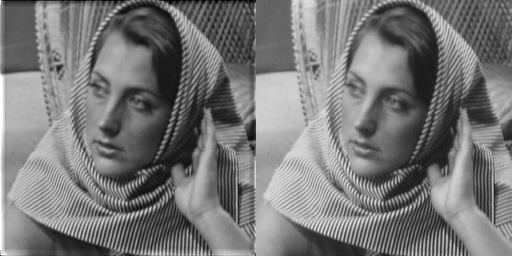
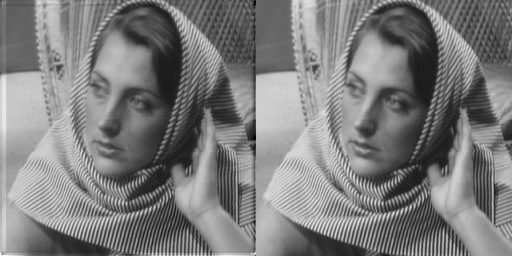
Q2: Added comments

diff --git a/MATLAB/q2c.m b/MATLAB/q2c.m
@@ -2,28 +2,32 @@ clc;
 clear;
 close all;
 
+% Setting seed
+rng(0);
+
 % Reading
 orig = cast(imread("data/barbara256.png"),'double');
 H = size(orig, 1);
 W = size(orig, 2);
 % figure; imshow(cast(orig, 'uint8'));
 
-% Adding Gaussian Noise
-noise_img = orig + 2*randn(H, W);
-% figure; imshow(cast(noise_img, 'uint8'));
-
+% Calculating phi, psi and thus, A.
 phi = randn(32, 64);
 psi = haarmtx(64);
 A = phi*psi;
 
-alpha = 100;
-iter = 100;
+% Setting alpha, lambda and number of iterations
+alpha = floor(eigs(A'*A,1)) + 1;
 lambda = 1;
+iter = 100;
 
+% Initializing reconstructed image and averaging matrix
 recon_img = zeros(H, W, 'double');
 avg_mat = zeros(H, W, 'double');
 
-tic;
+tic; % Timer start
+
+% Iterating over all possible 8x8 patches in the image
 for i=1:H-7
     for j=1:W-7
         y = phi * reshape(orig(i:i+7,j:j+7), [8*8 1]);
@@ -34,62 +38,64 @@ for i=1:H-7
     end
 end
 
+% Normalize the reconstructed image
 recon_img(:,:) = 2*recon_img(:,:)./avg_mat(:,:);
 recon_img(recon_img < 0) = 0;
 recon_img(recon_img > 255) = 255;
-figure;
-imshow(cast([recon_img(:,:), orig(:,:)], 'uint8'));
+
+% Save the image and calculate RMSE
+figure; imshow(cast([recon_img(:,:), orig(:,:)], 'uint8'));
 imwrite(cast([recon_img(:,:), orig(:,:)], 'uint8'), 'results/q2c.png');
 fprintf('RMSE : %f\n', norm(recon_img(:,:) - orig(:,:), 'fro')/norm(orig(:,:), 'fro'));
 
-toc;
+toc; % Timer end
 
 
-function H=haarmtx(n)
-% HAARMTX Compute Haar orthogonal transform matrix.
-%
-%   H = HAARMTX(N) returns the N-by-N HAAR transform matrix.  H*A
-%   is the HAAR transformation of the columns of A and H'*A is the inverse
-%   transformation of the columns of A (when A is N-by-N).
-%   If A is square, the two-dimensional Haar transformation of A can be computed
-%   as H*A*H'. This computation is sometimes faster than using
-%   DCT2, especially if you are computing large number of small
-%   Haar transformation, because H needs to be determined only once.
-%
-%   Class Support
-%   -------------
-%   N is an integer scalar of class double. H is returned
-%   as a matrix of class double.
-%
-%
-%   I/O Spec
-%   N - input must be double
-%   D - output DCT transform matrix is double
-%
-%   Author : Frederic Chanal (f.j.chanal@student.tue.nl) - 2004
-a=1/sqrt(n);
-for i=1:n
-    H(1,i)=a;
-end
-for k=1:n-1
-    p=fix(log2(k));
-    q=k-2^p+1;
-    t1=n/2^p;
-    sup=fix(q*t1);
-    mid=fix(sup-t1/2);
-    inf=fix(sup-t1);
-    t2=2^(p/2)*a;
-    for j=1:inf
-        H(k+1,j)=0;
+function H = haarmtx(n)
+    % HAARMTX Compute Haar orthogonal transform matrix.
+    %
+    %   H = HAARMTX(N) returns the N-by-N HAAR transform matrix.  H*A
+    %   is the HAAR transformation of the columns of A and H'*A is the inverse
+    %   transformation of the columns of A (when A is N-by-N).
+    %   If A is square, the two-dimensional Haar transformation of A can be computed
+    %   as H*A*H'. This computation is sometimes faster than using
+    %   DCT2, especially if you are computing large number of small
+    %   Haar transformation, because H needs to be determined only once.
+    %
+    %   Class Support
+    %   -------------
+    %   N is an integer scalar of class double. H is returned
+    %   as a matrix of class double.
+    %
+    %
+    %   I/O Spec
+    %   N - input must be double
+    %   D - output DCT transform matrix is double
+    %
+    %   Author : Frederic Chanal (f.j.chanal@student.tue.nl) - 2004
+    a=1/sqrt(n);
+    for i=1:n
+        H(1,i)=a;
     end
-    for j=inf+1:mid
-        H(k+1,j)=t2;
+    for k=1:n-1
+        p=fix(log2(k));
+        q=k-2^p+1;
+        t1=n/2^p;
+        sup=fix(q*t1);
+        mid=fix(sup-t1/2);
+        inf=fix(sup-t1);
+        t2=2^(p/2)*a;
+        for j=1:inf
+            H(k+1,j)=0;
+        end
+        for j=inf+1:mid
+            H(k+1,j)=t2;
+        end
+        for j=mid+1:sup
+            H(k+1,j)=-t2;
+        end
+        for j=sup+1:n
+            H(k+1,j)=0;
+        end
     end
-    for j=mid+1:sup
-        H(k+1,j)=-t2;
-    end
-    for j=sup+1:n
-        H(k+1,j)=0;
-    end
-end
 end

diff --git a/MATLAB/q2a.m b/MATLAB/q2a.m
@@ -2,6 +2,9 @@ clc;
 clear;
 close all;
 
+% Setting seed
+rng(0);
+
 % Reading
 orig = cast(imread("data/barbara256.png"),'double');
 H = size(orig, 1);
@@ -12,18 +15,23 @@ W = size(orig, 2);
 noise_img = orig + 2*randn(H, W);
 % figure; imshow(cast(noise_img, 'uint8'));
 
+% Calculating phi, psi and thus, A.
 phi = diag(ones(64,1));
 psi = kron(dctmtx(8)', dctmtx(8)');
 A = phi*psi;
 
+% Setting alpha, lambda and number of iterations
 alpha = floor(eigs(A'*A,1)) + 1;
-iter = 100;
 lambda = 1;
+iter = 100;
 
+% Initializing reconstructed image and averaging matrix
 recon_img = zeros(H, W, 'double');
 avg_mat = zeros(H, W, 'double');
 
-tic;
+tic; % Timer start
+
+% Iterating over all possible 8x8 patches in the image
 for i=1:H-7
     for j=1:W-7
         y = phi * reshape(noise_img(i:i+7,j:j+7), [8*8 1]);
@@ -34,12 +42,15 @@ for i=1:H-7
     end
 end
 
+% Normalize the reconstructed image
 recon_img(:,:) = recon_img(:,:)./avg_mat(:,:);
 recon_img(recon_img < 0) = 0;
 recon_img(recon_img > 255) = 255;
-figure;
-imshow(cast([recon_img(:,:), orig(:,:)], 'uint8'));
+
+% Save the image and calculate RMSE
+figure; imshow(cast([recon_img(:,:), orig(:,:)], 'uint8'));
 imwrite(cast([recon_img(:,:), orig(:,:)], 'uint8'), 'results/q2a.png');
 fprintf('RMSE : %f\n', norm(recon_img(:,:) - orig(:,:), 'fro')/norm(orig(:,:), 'fro'));
 
-toc;
+
+toc; % Timer end

diff --git a/MATLAB/q2b.m b/MATLAB/q2b.m
@@ -2,6 +2,7 @@ clc;
 clear;
 close all;
 
+% Setting seed
 rng(0);
 
 % Reading
@@ -10,18 +11,23 @@ H = size(orig, 1);
 W = size(orig, 2);
 % figure; imshow(cast(orig, 'uint8'));
 
+% Calculating phi, psi and thus, A.
 phi = randn(32, 64);
 psi = kron(dctmtx(8)', dctmtx(8)');
 A = phi*psi;
 
+% Setting alpha, lambda and number of iterations
 alpha = floor(eigs(A'*A,1)) + 1;
-iter = 100;
 lambda = 1;
+iter = 100;
 
+% Initializing reconstructed image and averaging matrix
 recon_img = zeros(H, W, 'double');
 avg_mat = zeros(H, W, 'double');
 
-tic;
+tic; % Timer start
+
+% Iterating over all possible 8x8 patches in the image
 for i=1:H-7
     for j=1:W-7
         y = phi * reshape(orig(i:i+7,j:j+7), [8*8 1]);
@@ -32,12 +38,14 @@ for i=1:H-7
     end
 end
 
+% Normalize the reconstructed image
 recon_img(:,:) = 2*recon_img(:,:)./avg_mat(:,:);
 recon_img(recon_img < 0) = 0;
 recon_img(recon_img > 255) = 255;
-figure;
-imshow(cast([recon_img(:,:), orig(:,:)], 'uint8'));
+
+% Save the image and calculate RMSE
+figure; imshow(cast([recon_img(:,:), orig(:,:)], 'uint8'));
 imwrite(cast([recon_img(:,:), orig(:,:)], 'uint8'), 'results/q2b.png');
 fprintf('RMSE : %f\n', norm(recon_img(:,:) - orig(:,:), 'fro')/norm(orig(:,:), 'fro'));
 
-toc;
+toc; % Timer end

diff --git a/MATLAB/q2d.m b/MATLAB/q2d.m
@@ -2,7 +2,8 @@ clc;
 clear;
 close all;
 
-rng(0);
+% Setting the seed
+rng(100);
 
 % Reading
 orig = zeros(100,1);
@@ -22,11 +23,9 @@ A(97:100, 100) = [1 2 3 10];
 A = A/16;
 
 alpha = floor(eigs(A'*A,1)) + 1;
-iter = 100;
-lambda = 1;
+iter = 10000;
+lambda = 0.01;
 
-y = A*orig + 0.05*norm(orig)*randn(100,1);
-
+y = A*orig;
 recon = ista(y, A, lambda, alpha, iter);
-
 fprintf('RMSE : %f\n', norm(recon - orig)/norm(orig));
